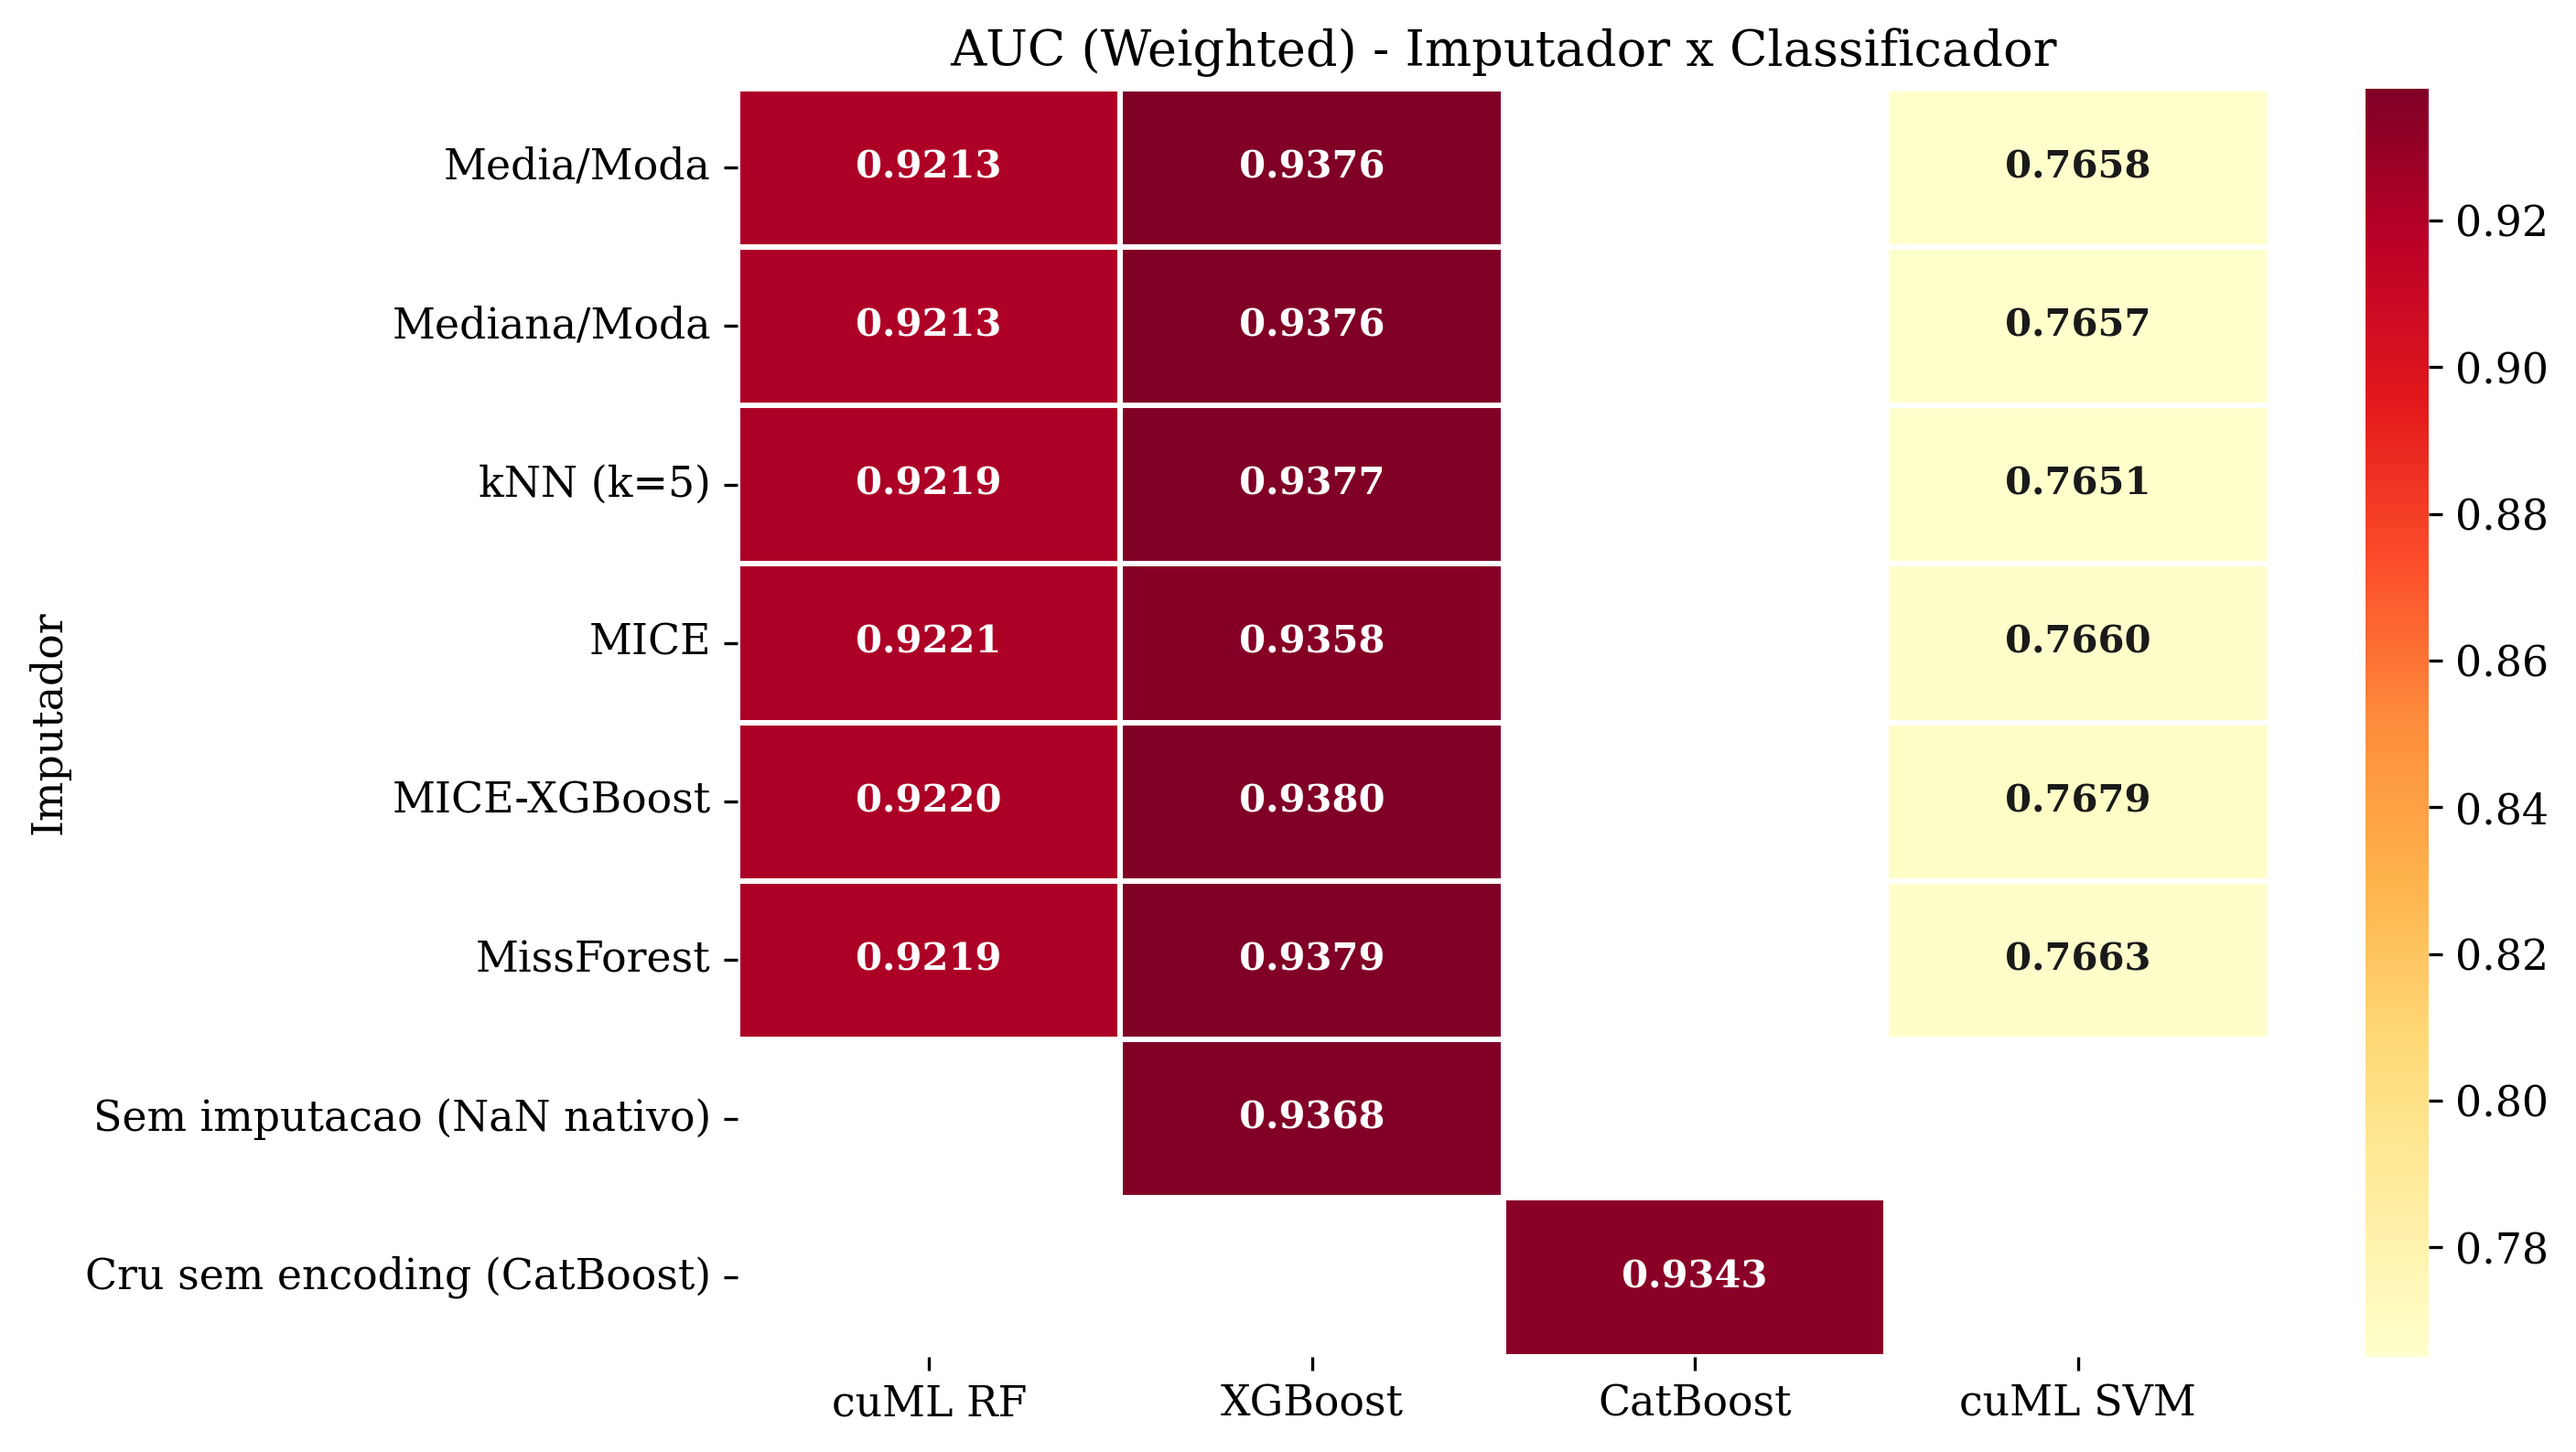
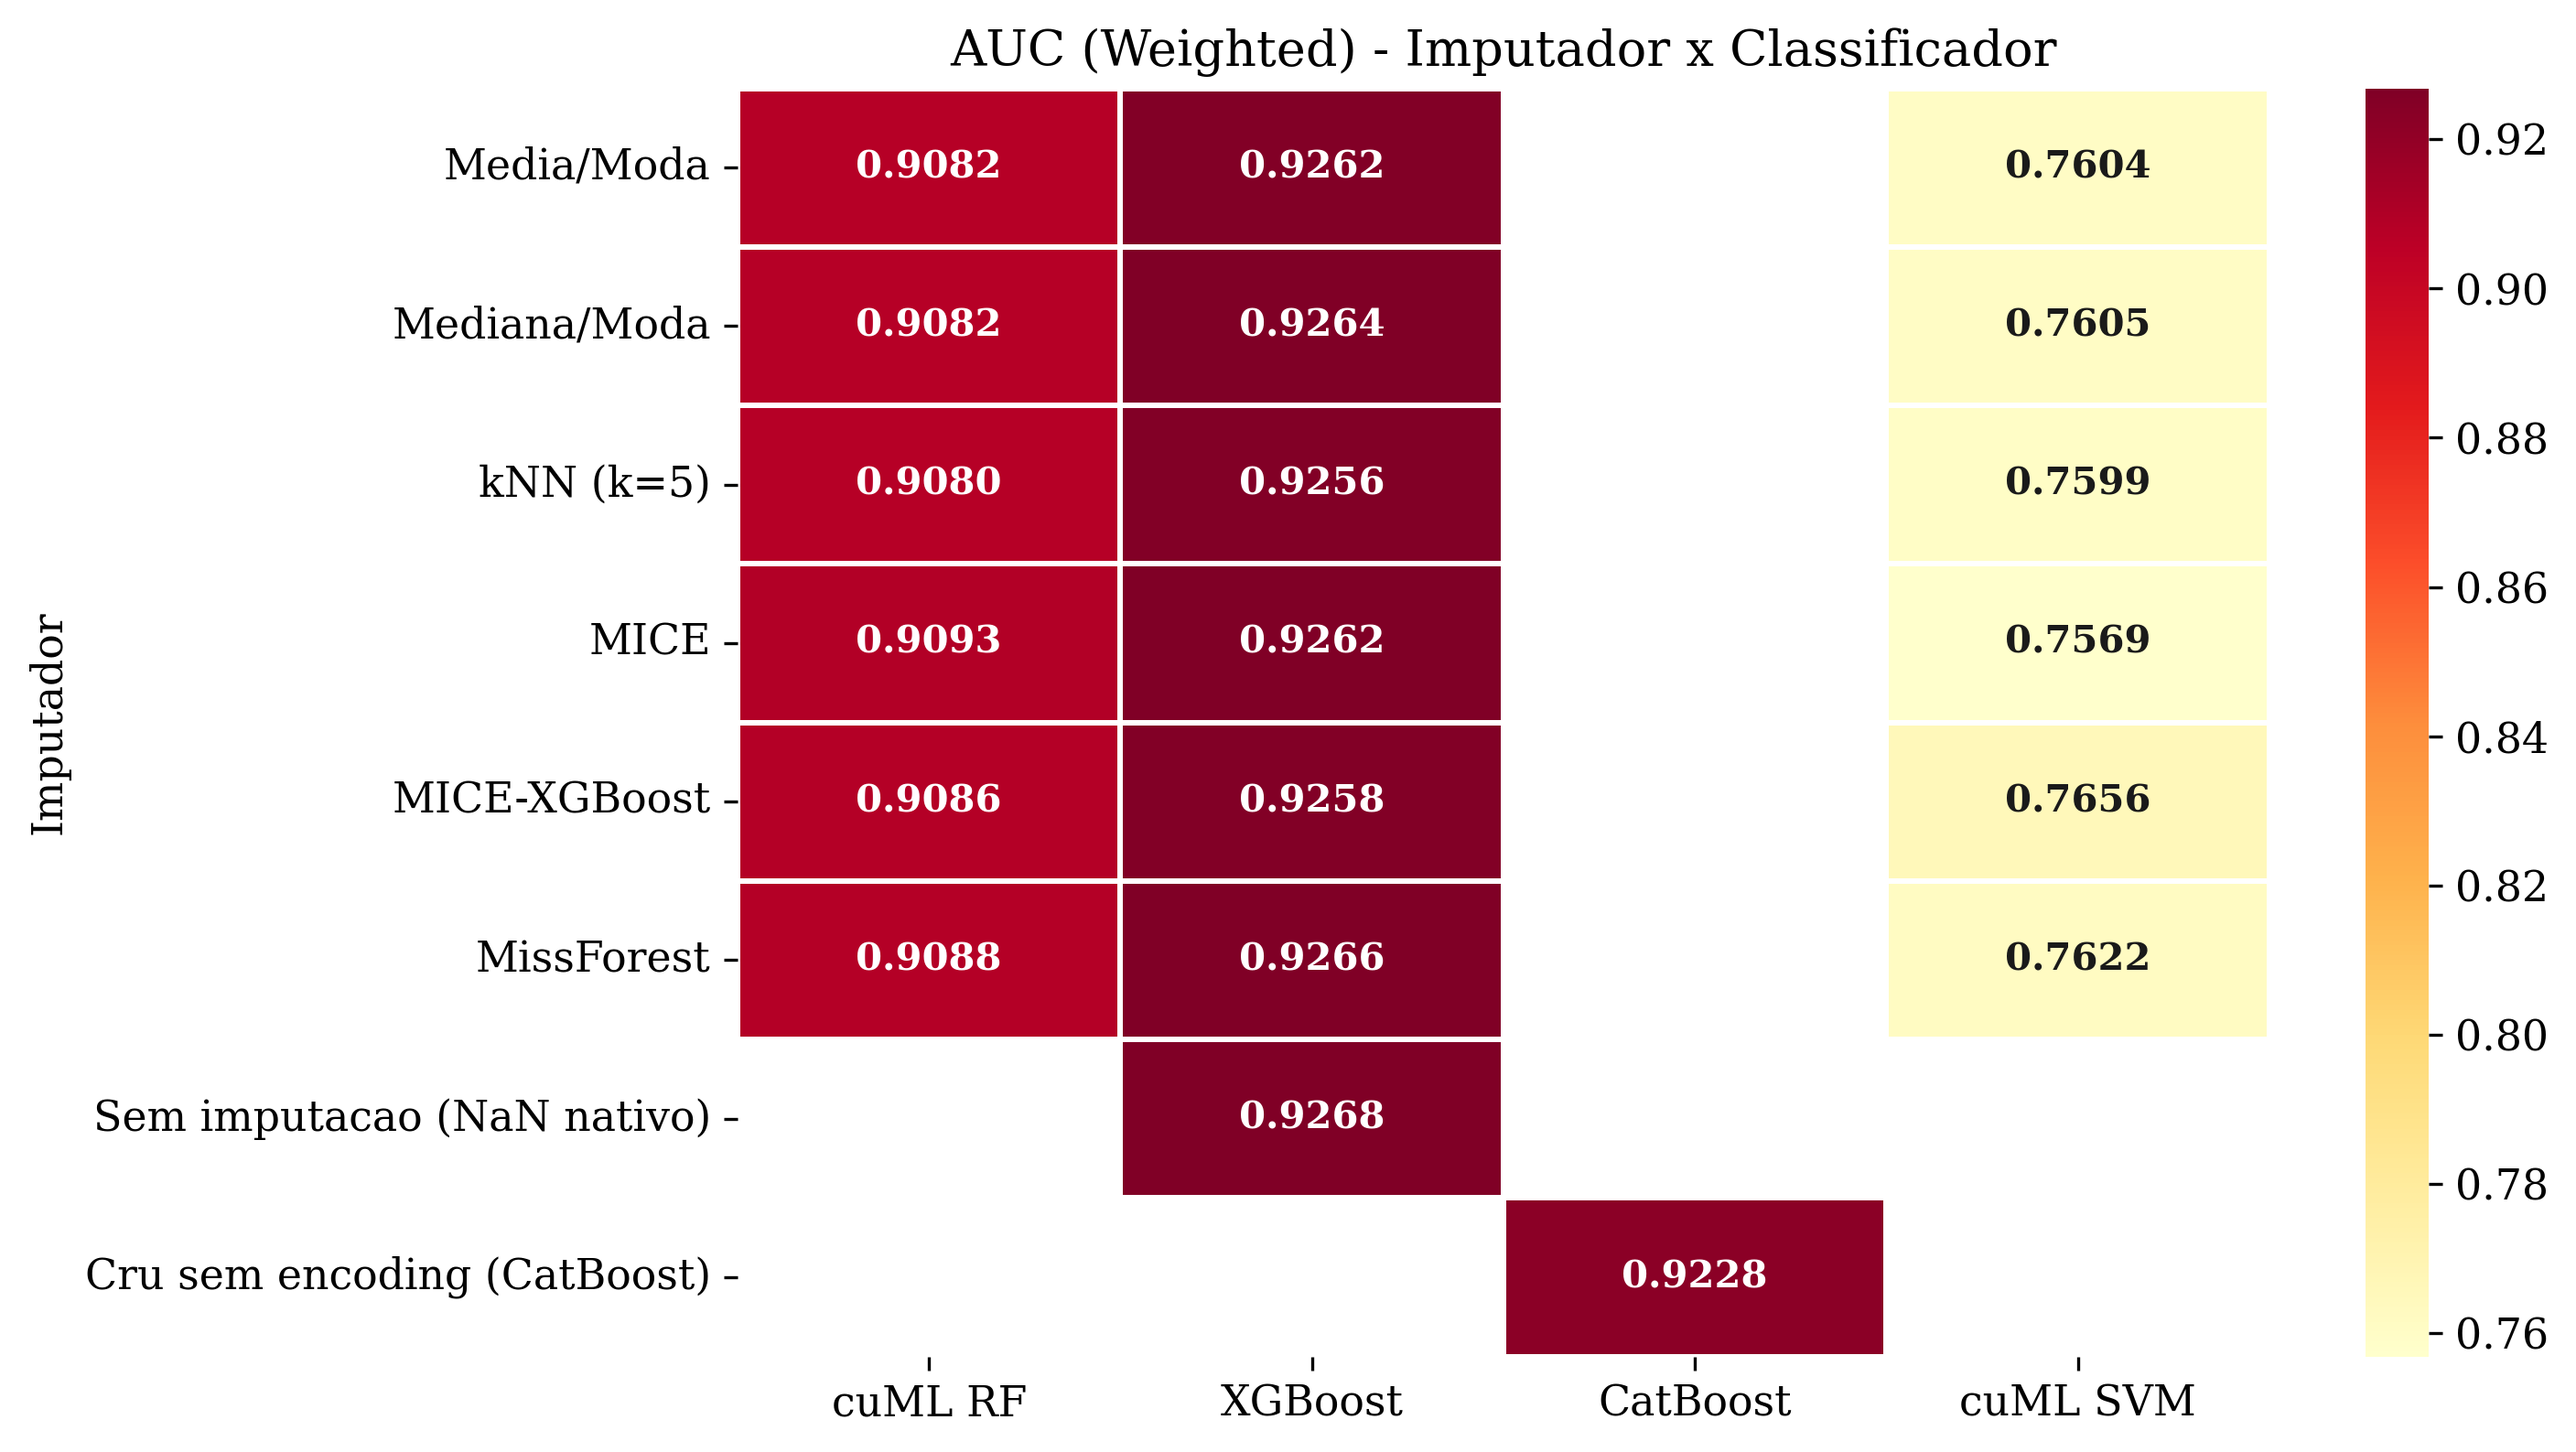
correcao categorias estadiam e codigos fora do dicionario

diff --git a/src/data_preparation.py b/src/data_preparation.py
@@ -166,6 +166,75 @@ def _replace_missing_with_nan(df, missing_rules):
     return replaced
 
 
+def _enforce_dictionary_domain(df, dict_path):
+    """
+    Overwrites any value that is not present in the variable's dictionary
+    with its designated 'Sem informação' code (like 9 or 4).
+    If a variable does not have a 'Sem informação' code, out-of-domain values
+    are set directly to NaN.
+    """
+    with open(dict_path, "r", encoding="utf-8") as f:
+        dictionary = json.load(f)
+
+    replaced_info = {}
+    for col, spec in dictionary.items():
+        if col not in df.columns:
+            continue
+        vals = spec.get("valores")
+        if not isinstance(vals, dict):
+            continue
+
+        valid_keys = set(str(k).strip() for k in vals.keys())
+
+        non_info_code = None
+        fallback_code = None
+        for k, label in vals.items():
+            lbl_norm = _normalize_text(label)
+            if lbl_norm == "sem informacao":
+                non_info_code = str(k).strip()
+                break
+            if _is_non_informative_label(label):
+                if fallback_code is None:
+                    fallback_code = str(k).strip()
+
+        if non_info_code is None:
+            non_info_code = fallback_code
+
+        valid_nums = []
+        for k in valid_keys:
+            try:
+                valid_nums.append(float(k))
+            except ValueError:
+                pass
+
+        series_str = df[col].astype("string").str.strip()
+        series_num = pd.to_numeric(series_str, errors="coerce")
+        
+        mask_valid_str = series_str.isin(valid_keys)
+        # Avoid treating empty strings as matching if valid_keys doesn't explicitly have it
+        mask_valid_num = series_num.isin(valid_nums) & series_str.notna() & (series_str != "")
+        
+        is_invalid = df[col].notna() & ~(mask_valid_str | mask_valid_num)
+        
+        n_invalid = is_invalid.sum()
+        if n_invalid > 0:
+            if non_info_code is not None:
+                if pd.api.types.is_numeric_dtype(df[col]):
+                    try:
+                        df.loc[is_invalid, col] = float(non_info_code)
+                    except ValueError:
+                        df.loc[is_invalid, col] = non_info_code
+                else:
+                    # Assign as string
+                    # If column implies integer (e.g., object types that might mix str and int)
+                    df.loc[is_invalid, col] = non_info_code
+            else:
+                df.loc[is_invalid, col] = np.nan
+            replaced_info[col] = int(n_invalid)
+
+    return replaced_info
+
+
 def prepare_data(df: "pd.DataFrame", config_path: str = "config/config.yaml", cfg: dict = None) -> None:
     if cfg is None:
         cfg = load_config(config_path)
@@ -219,6 +288,11 @@ def prepare_data(df: "pd.DataFrame", config_path: str = "config/config.yaml", cf
     )
     meta["n_after_date_filter"] = len(df)
 
+    out_of_domain_replaced = _enforce_dictionary_domain(df, dict_path)
+    if out_of_domain_replaced:
+        log.info("Enforced dictionary domain (set OOV to non-informative code) in %d columns", len(out_of_domain_replaced))
+    meta["out_of_domain_replaced"] = out_of_domain_replaced
+
     sem_info_replaced = _replace_missing_with_nan(df, missing_rules)
     if sem_info_replaced:
         log.info("Replaced non-informative dictionary values with NaN in %d columns", len(sem_info_replaced))
@@ -234,10 +308,38 @@ def prepare_data(df: "pd.DataFrame", config_path: str = "config/config.yaml", cf
         target_col,
         df[target_col].value_counts(dropna=False).sort_index(),
     )
+    
+    # 1. Clean the target column to group granular staging (e.g. 1A -> 1, 2B -> 2)
+    # The logic keeps the first digit if the value starts with 0-9.
+    # We must explicitly protect special codes like '88' and '99' and '00'-'09'.
+    target_str = df[target_col].astype("string").str.strip().str.upper()
+    grouped_target = target_str.copy()
+    
+    # Extract the first character for values that start with a digit (but only length > 1 if not special)
+    # We map '1A', '1B', etc. to '1', '2A' to '2', etc.
+    # Preserve double-digit codes like '88', '99', '00', '01'
+    is_multidigit_num = target_str.str.match(r"^\d{2}$", na=False)
+    has_first_digit = target_str.str.match(r"^\d.*", na=False)
+    
+    # Apply grouping: if it starts with a digit but is NOT exactly 2 digits
+    # (or if we want to be safe, length > 1 but not matching exactly two digits 88, 99)
+    mask_to_group = has_first_digit & ~is_multidigit_num
+    grouped_target.loc[mask_to_group] = target_str.loc[mask_to_group].str[0]
+    
+    # Convert '00', '01', '02', '03', '04' to '0', '1', '2', '3', '4'
+    is_zero_padded = target_str.str.match(r"^0\d$", na=False)
+    grouped_target.loc[is_zero_padded] = target_str.loc[is_zero_padded].str[1]
+    
+    # Reassign the grouped column
+    df[target_col] = grouped_target
+    
+    # 2. Convert to numeric, letting non-numeric stuff become NaN
     df[target_col] = pd.to_numeric(df[target_col], errors="coerce")
+    
+    # 3. Filter only valid clinical staging classes
     n0 = len(df)
     df = df[df[target_col].isin(data_cfg["valid_classes"])].copy()
-    log.info("Target filter: %s -> %s", f"{n0:,}", f"{len(df):,}")
+    log.info("Target filter (after grouping granular staging): %s -> %s", f"{n0:,}", f"{len(df):,}")
     meta["n_after_target_filter"] = len(df)
 
     features = [f for f in all_features if f in df.columns]
